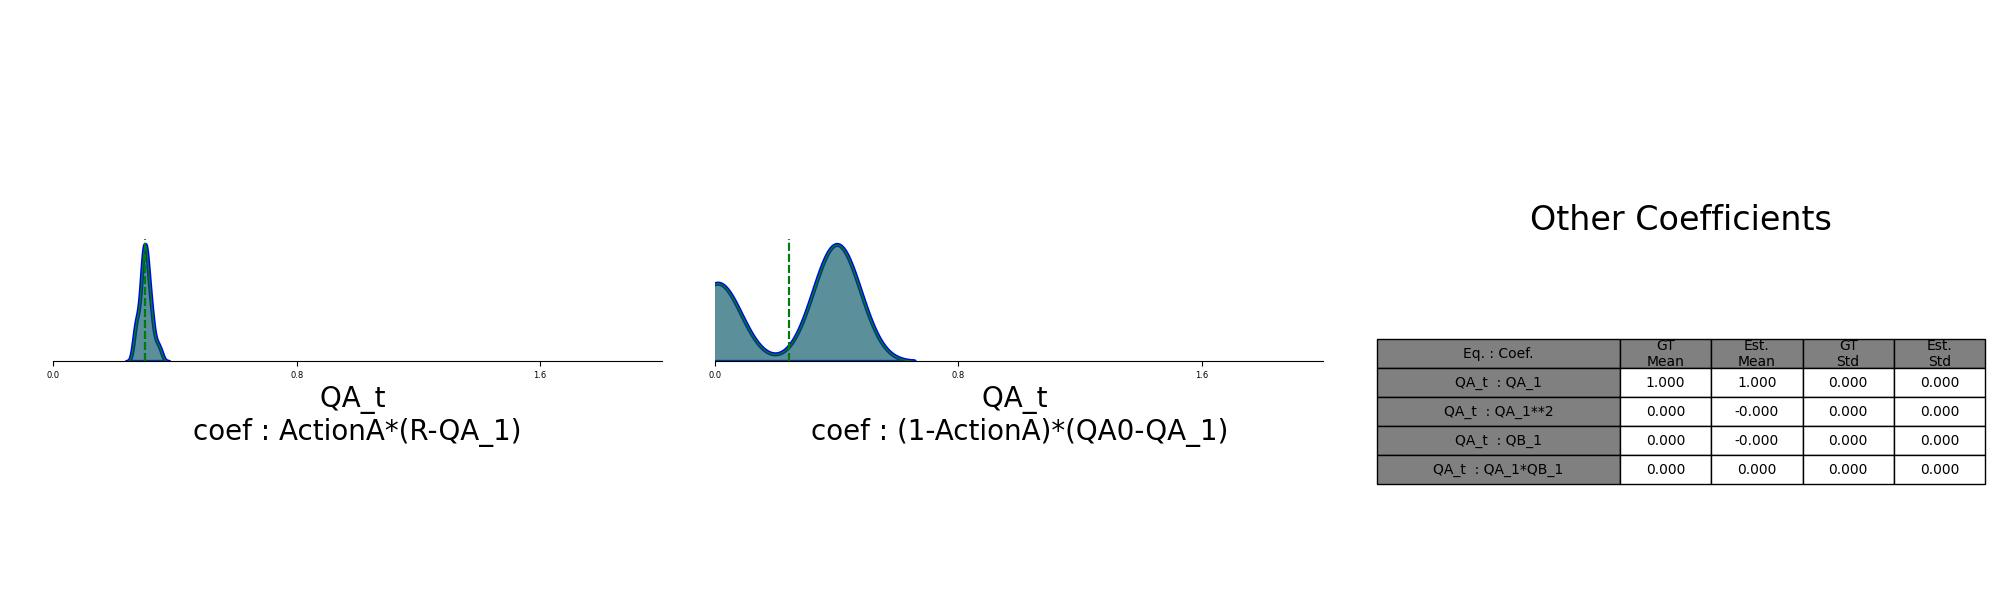
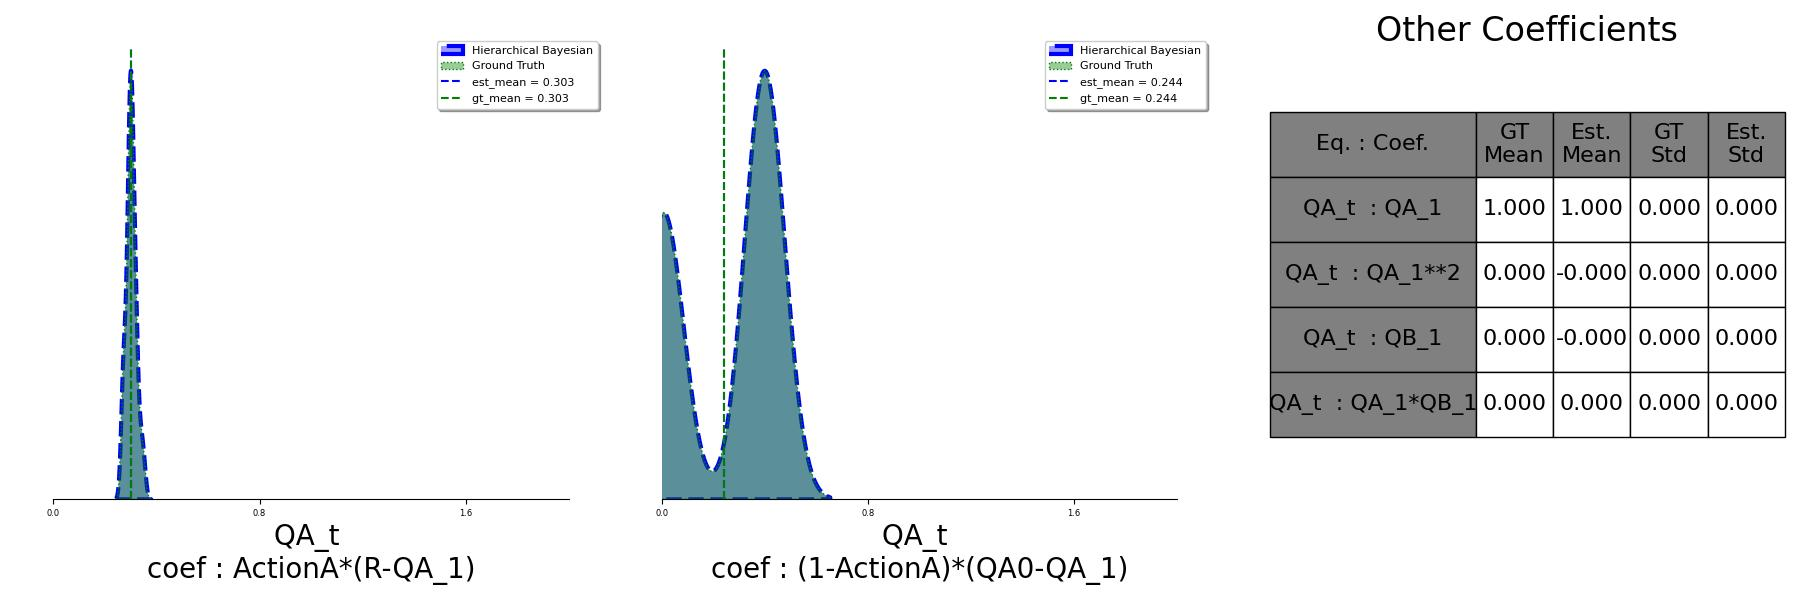
row distribution plot update

diff --git a/src/plot.py b/src/plot.py
@@ -468,21 +468,21 @@ def row_result(save_path, gt_utils, realparame2gtarray, true_params_file_str,
 
         # Plot in the dedicated subplot row
         # axi = fig.add_subplot(gs[1 * row_plot_idx + 1, col])
-        axi = plt.subplot2grid((n_rows, n_cols + 1),(1,col),colspan=1,fig=fig)
+        axi = plt.subplot2grid((n_rows, n_cols + 1),(row_plot_idx,col),colspan=1,fig=fig)
         # used_axes.append(axi)
 
         try:
             sns.kdeplot(est_coef_mean_arr[:, index[1], index[0]], ax=axi, fill=True, color=est_color, alpha=.4,
-                        warn_singular=False, linewidth=3)
+                        warn_singular=False, linewidth=3,ls='--',label="Hierarchical Bayesian")
             if true_params:
                 sns.kdeplot(gt_coef_array[index[0], index[1], :], ax=axi, fill=True, color=gt_color, alpha=.4,
-                            warn_singular=False, linewidth=1)
+                            warn_singular=False, linewidth=1,ls=":",label="Ground Truth")
         except:
             sns.kdeplot(est_coef_mean_arr[:, index[1], index[0]], ax=axi, fill=True, color=est_color, alpha=.4,
-                        warn_singular=False, linewidth=3)
+                        warn_singular=False, linewidth=3,ls="--",label="Hierarchical Bayesian")
             if true_params:
                 sns.kdeplot(gt_coef_array[index[0], index[1], :], ax=axi, fill=True, color=gt_color, alpha=.2,
-                            warn_singular=False, linewidth=1)
+                            warn_singular=False, linewidth=1,ls=":",label="Ground Truth")
 
         est_mean = np.mean(est_coef_mean_arr[:, index[1], index[0]])
         est_std = np.std(est_coef_mean_arr[:, index[1], index[0]])
@@ -503,9 +503,10 @@ def row_result(save_path, gt_utils, realparame2gtarray, true_params_file_str,
         axi.spines['left'].set_visible(False)
         axi.spines['top'].set_visible(False)
         axi.spines['right'].set_visible(False)
+        if col == n_cols - 1 and row_plot_idx == 0:
+            axi.legend(loc='center left', bbox_to_anchor=(.9, 1.03))
         if legend_True:
-            axi.legend(loc='upper center', bbox_to_anchor=(0.5, 1.03), ncol=1, fancybox=True, shadow=True, fontsize=8)
-
+            axi.legend(loc='upper center', bbox_to_anchor=(0.9, 1.03), ncol=1, fancybox=True, shadow=True, fontsize=8)
         plot_counter += 1
         axi.set_xlim(0,2)
 
@@ -518,7 +519,7 @@ def row_result(save_path, gt_utils, realparame2gtarray, true_params_file_str,
         axi.axis('off')
 
     # Add the table to the last column, spanning all 2*n_rows
-    ax_table = plt.subplot2grid((n_rows, n_cols + 1), (1, n_cols), colspan=1, rowspan=n_rows,fig=fig)
+    ax_table = plt.subplot2grid((n_rows, n_cols + 1), (0, n_cols), colspan=1, rowspan=n_rows,fig=fig)
     ax_table.axis('off')
 
     if missed_coef_data:
@@ -542,8 +543,9 @@ def row_result(save_path, gt_utils, realparame2gtarray, true_params_file_str,
                     cell.set_facecolor('white')
 
         table.auto_set_font_size(False)
-        table.set_fontsize(xlabel_fontsize-10)
-        table.scale(1, 1.5)
+        table.set_fontsize(xlabel_fontsize-4)
+        # table.scale(1, 1.5)
+        table.scale(1, 4.0)
         ax_table.set_title('Other Coefficients', fontsize=24)
 
     # Use tight_layout to handle spacing between GridSpec cells

diff --git a/Cognetive_RL_Data/CRL.py b/Cognetive_RL_Data/CRL.py
@@ -33,10 +33,10 @@ elif mode == "row_plot":
     to_plot = [[0, 1], [0, 2]]
     true_params_file_str = f"chk_GT_Data.pkl"
     save_path = os.path.join(root_path, [file for file in os.listdir(root_path) if file.startswith(save_dir_prefix)][0])
-    plot_dict = {"est_color": "blue", "gt_color": "green", "legend": None, "xlabel_fontsize": 20, "title_fontsize": None}
+    plot_dict = {"est_color": "blue", "gt_color": "green", "legend": True, "xlabel_fontsize": 20, "title_fontsize": None}
     row_result(save_path, gt_utils, realparame2gtarray, true_params_file_str,
-               fighigth=6, figwidth=20,
-               n_rows=3, n_cols=2,
+               fighigth=6, figwidth=18,
+               n_rows=1, n_cols=2,
                scaler=None, to_plot=to_plot, plot_dict=plot_dict)
 elif mode=="plot":
 
